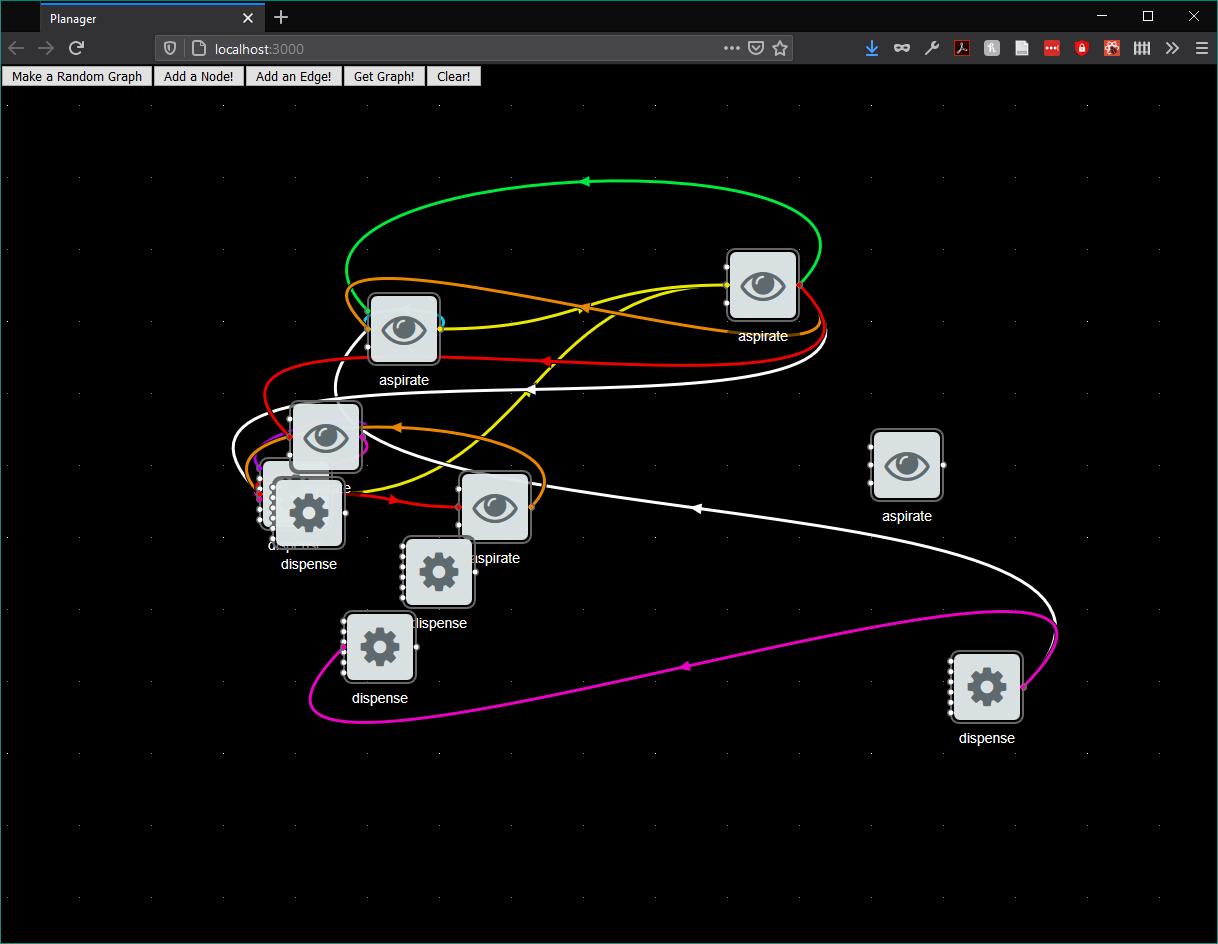
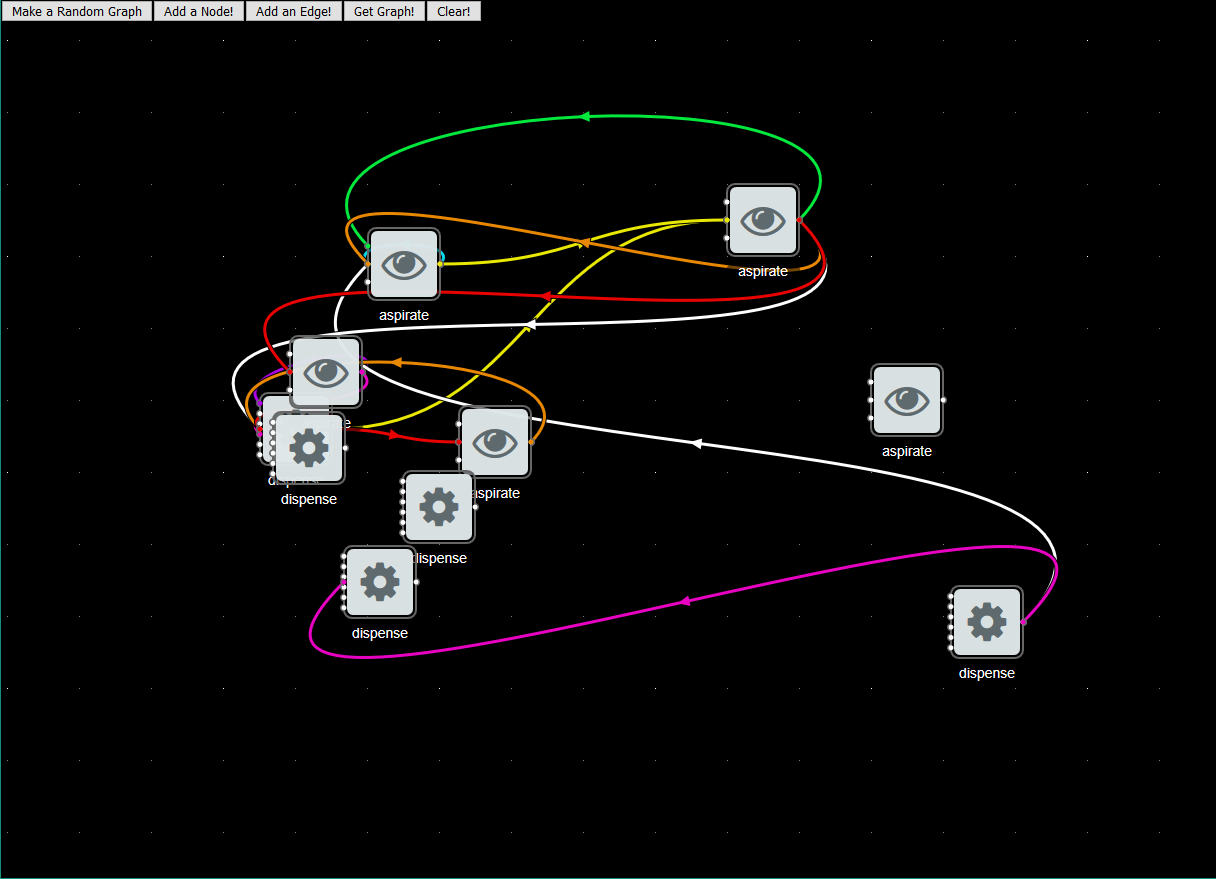
Update images

diff --git a/README.md b/README.md
@@ -18,10 +18,12 @@ To understand more about how React works, I recommend going through their [Tic T
 
 ## Features
 
-So far, you can create a dummy graph of dummy actions, connect them, and move them around.
+So far, you can create a dummy graph of dummy actions, connect them, and move them around. I made a random graph here to demonstrate:
+
 ![graph](pics/graph.png)
 
- You can also get the json that defines this graph, or "workflow".
+ You can also get the json that defines this graph, or "workflow":
+
 ![graph json](pics/graph_json.png)
 
 Next steps are to add internal logic to the actions, and create a template action that can be easily copied and modified.
